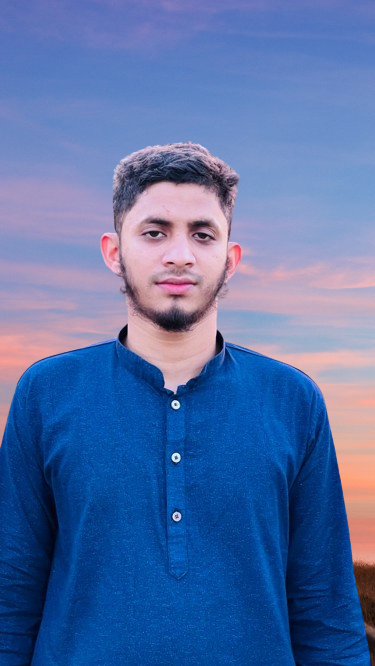
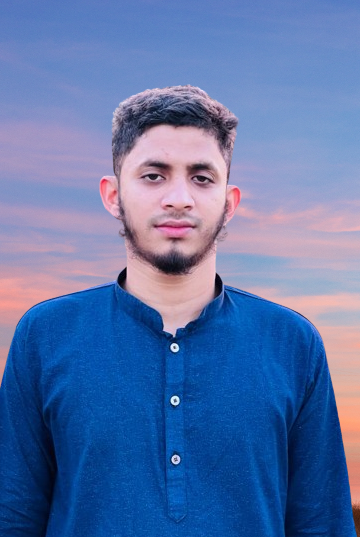
Update HomeAboutMe component and me.png

diff --git a/src/modules/Home/HomeAboutMe.tsx b/src/modules/Home/HomeAboutMe.tsx
@@ -1,50 +1,50 @@
-import { Heading } from '@components/text';
-import Image from 'next/image';
-import Link from 'next/link';
+/* eslint-disable react/no-unescaped-entities */
+import { Heading } from "@components/text";
+import Image from "next/image";
+import Link from "next/link";
 
 const HomeAboutMe = () => {
   return (
-    <section className='layout-container '>
-      <div className=' flex flex-col-reverse items-center justify-between gap-8 py-10 lg:flex-row lg:py-20'>
-        <div className='w-full max-w-[700px]'>
+    <section className="layout-container ">
+      <div className=" flex flex-col-reverse items-center justify-between gap-8 py-10 lg:flex-row lg:py-20">
+        <div className="w-full max-w-[700px]">
           <Heading>About Me</Heading>
-          <p className='max-w-[650px] my-6 leading-[34px] text-lg'>
-            Good day, everyone! I&apos;m SM Tanimur Rahman,and I&apos;m from
-            Bangladesh. I&apos;m Fresher Full-Stack Developer. I&apos;m often
-            praised for my creativity and independent working skills. I always
-            put my heart and soul into every single website that I develop. I
-            guess that&apos;s all I have to share about myself. Thank you for
-            reading!
+          <p className="max-w-[650px] my-6 leading-[34px] text-lg">
+            Hello! I'm Tanim, a passionate self-taught Full Stack developer from
+            Bangladesh. I build things for the web & mobile. I develop web
+            applications, mobile applications & desktop applications. Passionate
+            about new technologies and problem-solving. I am available for any
+            kind of job opportunity that suits my interests.
           </p>
-          <div className='flex flex-col gap-5 lg:flex-row'>
-            <div className='font-medium'>2021 - 2022 :</div>
-            <div className='flex gap-3'>
+          <div className="flex flex-col gap-5 lg:flex-row">
+            <div className="font-medium">2021 - 2022 :</div>
+            <div className="flex gap-3">
               <div>
-                <h3 className='font-semibold'>
+                <h3 className="font-semibold">
                   PROFESSIONAL FULL-STACK DEVELOPER
                 </h3>
               </div>
             </div>
           </div>
-          <div className='flex mt-6 gap-x-3'>
+          <div className="flex mt-6 gap-x-3">
             <Link
-              className='py-3 rounded-lg px-7 bg-linearOrangee'
-              href='https://drive.google.com/file/d/19llCKYmBA1i5g1Ru2xmC4wjHpVVVruyx/view?usp=drive_link'
+              className="py-3 rounded-lg px-7 bg-linearOrangee"
+              href="https://drive.google.com/file/d/19llCKYmBA1i5g1Ru2xmC4wjHpVVVruyx/view?usp=drive_link"
             >
               Download CV
             </Link>
-            <button className='py-3 rounded-lg px-7 bg-linearPurple'>
+            <button className="py-3 rounded-lg px-7 bg-linearPurple">
               Contact Me
             </button>
           </div>
         </div>
-        <div className='flex justify-center max-h-[350px] flex-1 maxsm:max-w-[250px]'>
+        <div className="flex justify-center max-h-[380px] h-full flex-1 maxsm:max-w-[280px]">
           <Image
-            alt='avatar'
-            width={350}
-            height={350}
-            src='/me.png'
-            className='rounded-lg   object-cover content-center bg-no-repeat'
+            alt="avatar"
+            width={340}
+            height={380}
+            src="/me.png"
+            className="rounded-lg h-[370px]   object-cover content-center bg-no-repeat"
           />
         </div>
       </div>
